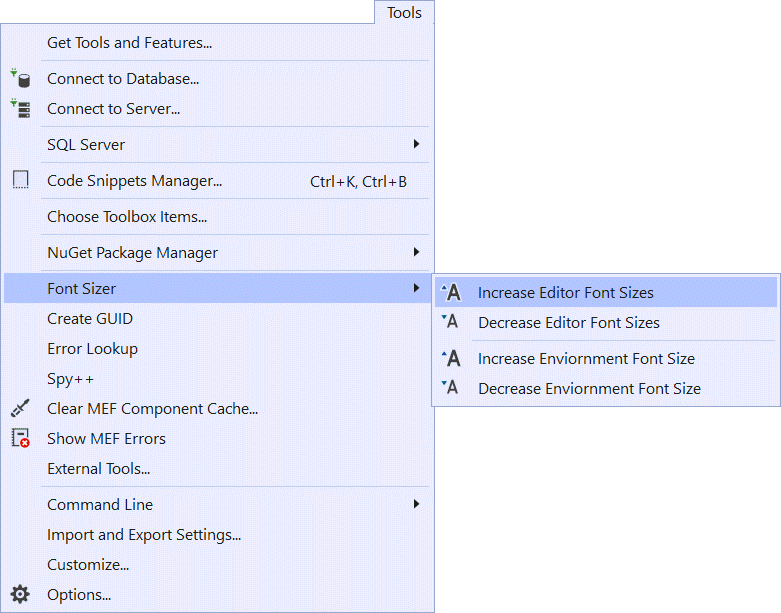
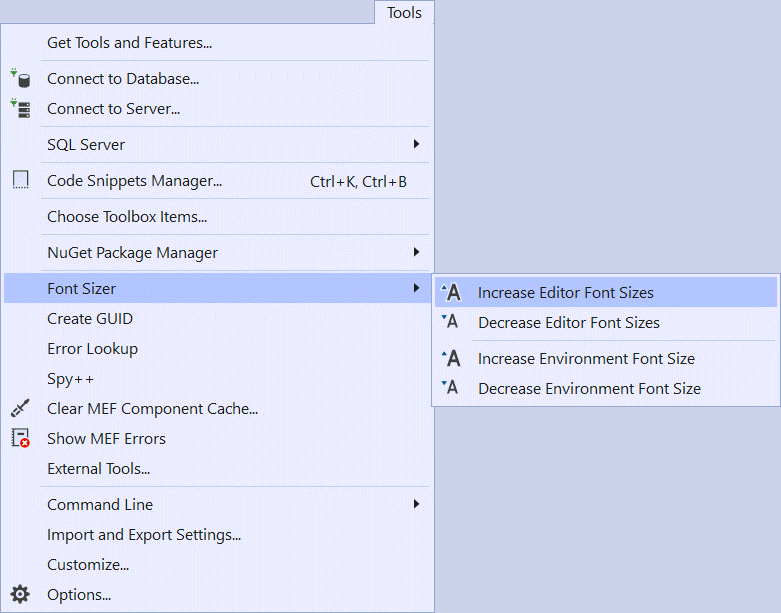
Typo visible in menu corrected

diff --git a/src/VSCommandTable.cs b/src/VSCommandTable.cs
@@ -28,7 +28,7 @@ namespace FontSizer
         public const int MyMenu = 0x1030;
         public const int cmdidIncreaseFontSize = 0x0100;
         public const int cmdidDecreaseFontSize = 0x0200;
-        public const int cmdidIncreaseEnviornmentFontSize = 0x0300;
-        public const int cmdidDecreaseEnviornmentFontSize = 0x0400;
+        public const int cmdidIncreaseEnvironmentFontSize = 0x0300;
+        public const int cmdidDecreaseEnvironmentFontSize = 0x0400;
     }
 }
